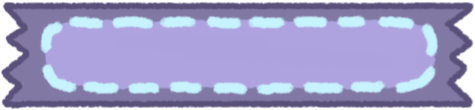
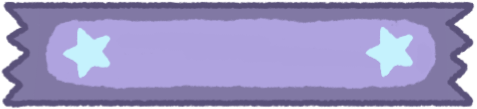
worked on buttons & layout details

diff --git a/public_html/app/linkPage/linkPageStyle.css b/public_html/app/linkPage/linkPageStyle.css
@@ -26,6 +26,13 @@ body{
 #title{
     animation-name: websiteAnimation;
     animation-duration: 1.5s;
+    width: 450px;
+    /* width: 70%;
+    max-width: 600px;
+    min-width: 400px; */
+    display: block;
+    margin: auto;
+    padding-top: 20px;
 }
 
 /* Styling for contents in the middle */
@@ -33,8 +40,9 @@ body{
     animation-name: websiteAnimation;
     animation-duration: 1.5s;
     margin: auto;
-    padding-top: 50px;
-    transform: translateY(150px);
+    padding-top: 40px;
+    padding-bottom: 60px;
+    /* transform: translateY(50px); */
     text-align: center;
     background-image: url('../../resources/img/base_paper.png');
     background-color: transparent;
@@ -72,7 +80,7 @@ body{
 }
 .linkBox:hover{
     text-shadow: -2px 0 white, 0 2px white, 2px 0 white, 0 -2px white;
-    filter: brightness(.8);
+    filter: brightness(0.9);
     transform: scale(1.1);
 }
 
@@ -96,18 +104,38 @@ body{
 }
 
 #instagramShopLink{
-    background-color: lightcoral;
+    padding: 10px;
+    background-image: url('../../resources/img/red_washi.png');
+    background-color: transparent;
+    background-repeat: no-repeat;
+    background-size: contain;
+    background-position: center;
 }
 
 
 #instagramArtLink{
-    background-color: lightpink;
+    padding: 10px;
+    background-image: url('../../resources/img/pink_washi.png');
+    background-color: transparent;
+    background-repeat: no-repeat;
+    background-size: contain;
+    background-position: center;
 }
 
 #tiktokLink{
-    background-color: lightblue;
+    padding: 10px;
+    background-image: url('../../resources/img/blue_washi.png');
+    background-color: transparent;
+    background-repeat: no-repeat;
+    background-size: contain;
+    background-position: center;
 }
 
 #frensLink{
-    background-color: mediumaquamarine;
+    padding: 10px;
+    background-image: url('../../resources/img/green_washi.png');
+    background-color: transparent;
+    background-repeat: no-repeat;
+    background-size: contain;
+    background-position: center;
 }

diff --git a/public_html/app/linkPage/linkPage.html b/public_html/app/linkPage/linkPage.html
@@ -14,7 +14,7 @@
   </head>
   <body>
     <main>
-        <img id="title" src="" alt="REJIHA"><br>
+        <img id="title" src="..\..\resources\img\title_outline.png" alt="REJIHA"><br>
         <div id="mainBase">
             <div class="profile">
                 <img id="profilePic" src="..\..\resources\img\PROFILE_mint.png" alt="REJIHA profile"><br>
